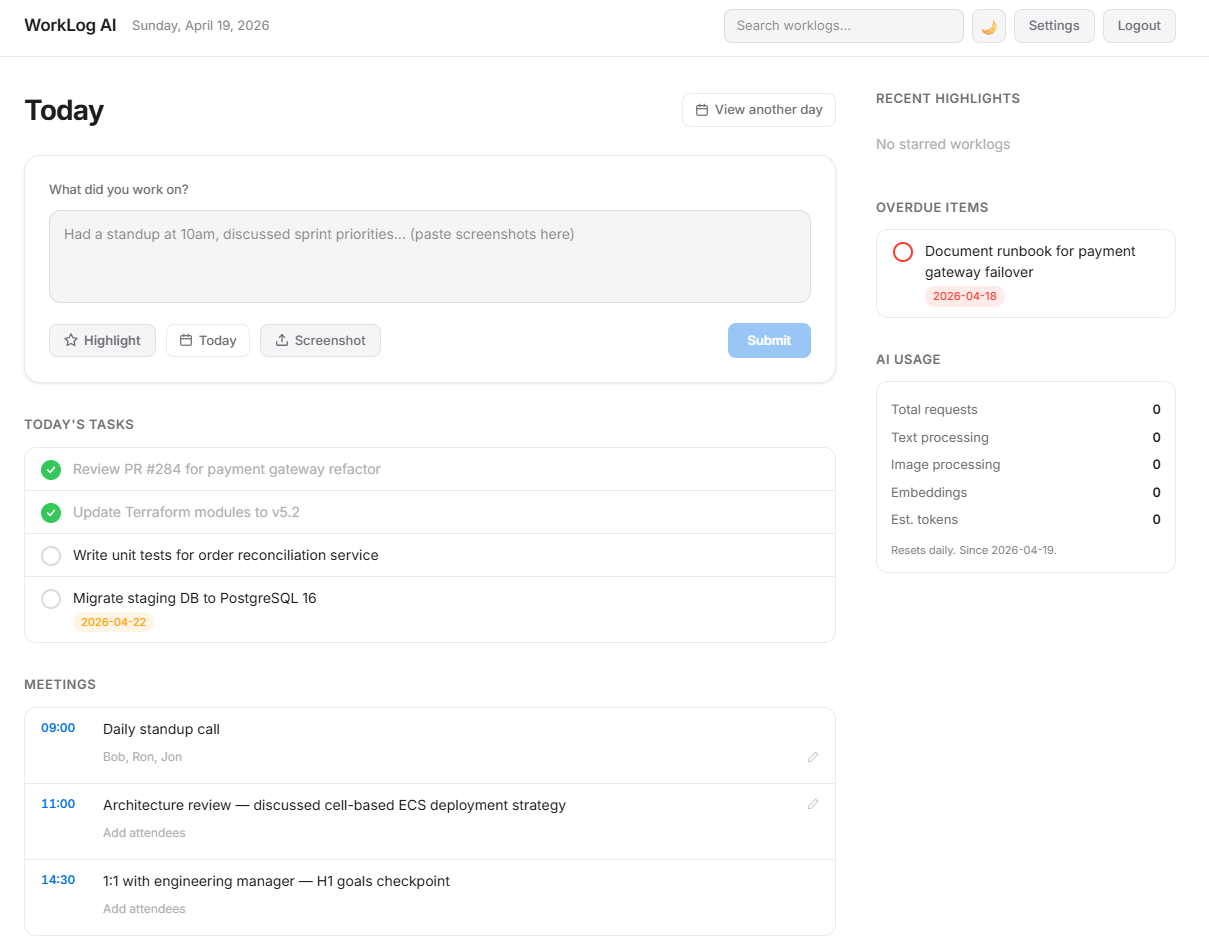
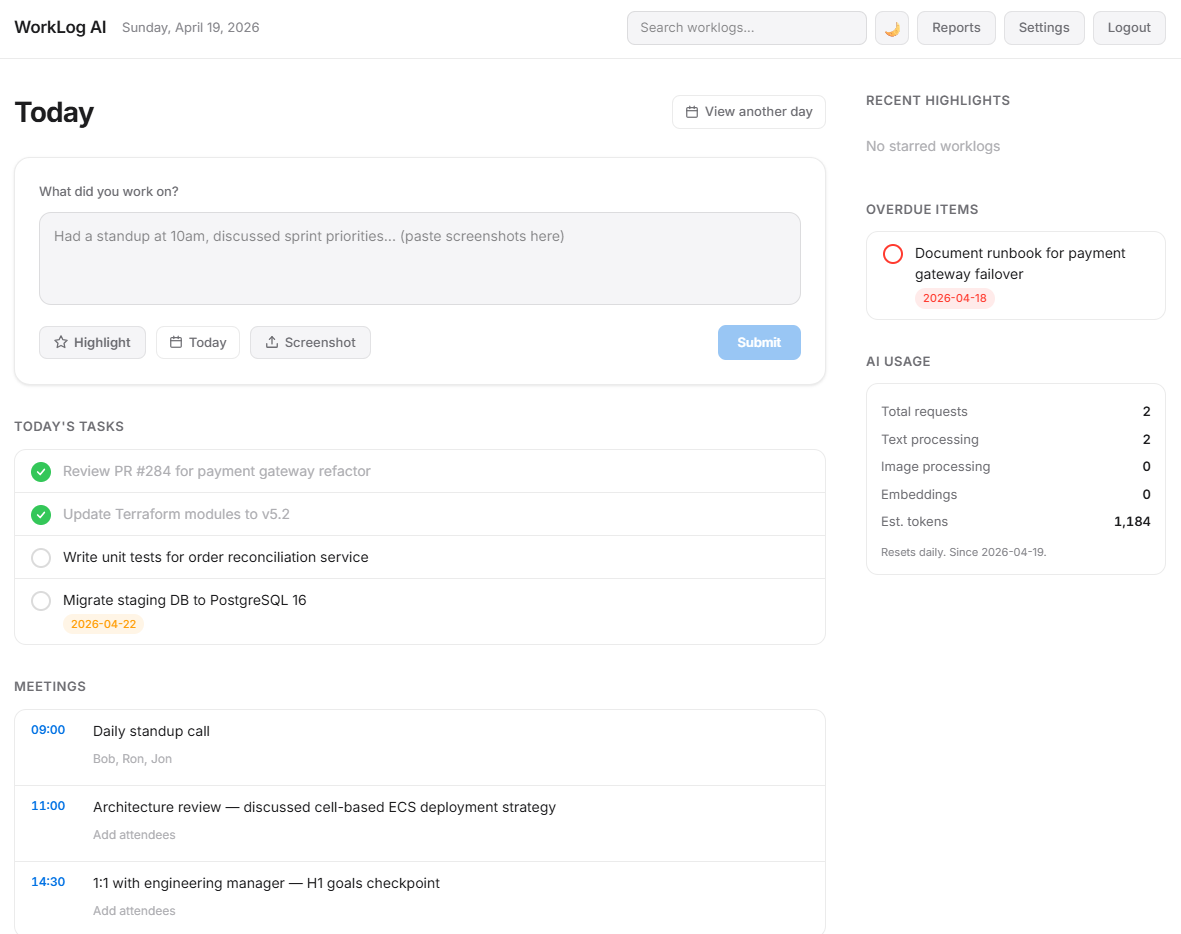
docs: update dashboard screenshot and add work summary report screenshot

diff --git a/README.md b/README.md
@@ -23,6 +23,8 @@ AI-powered daily worklog manager. Type what you worked on in natural language, a
 - **Task time tracking** — tasks can carry a time (e.g. 15:00) shown in the UI
 - **Starred highlights** — mark entries as important with the star toggle, shown in sidebar
 - **Work summary report** — select a date range to view aggregated stats, highlights, decisions, meetings, and pending tasks with optional AI narrative summary and HTML download
+
+![Work Summary Report](media/work-summary-report.png)
 - **AI usage metrics** — sidebar tracks daily AI request counts and estimated tokens (persisted across restarts)
 - **Processing indicators** — animated progress bar and success summary on submission
 - **Dashboard** — today's tasks, meetings, pending items, overdue items at a glance
